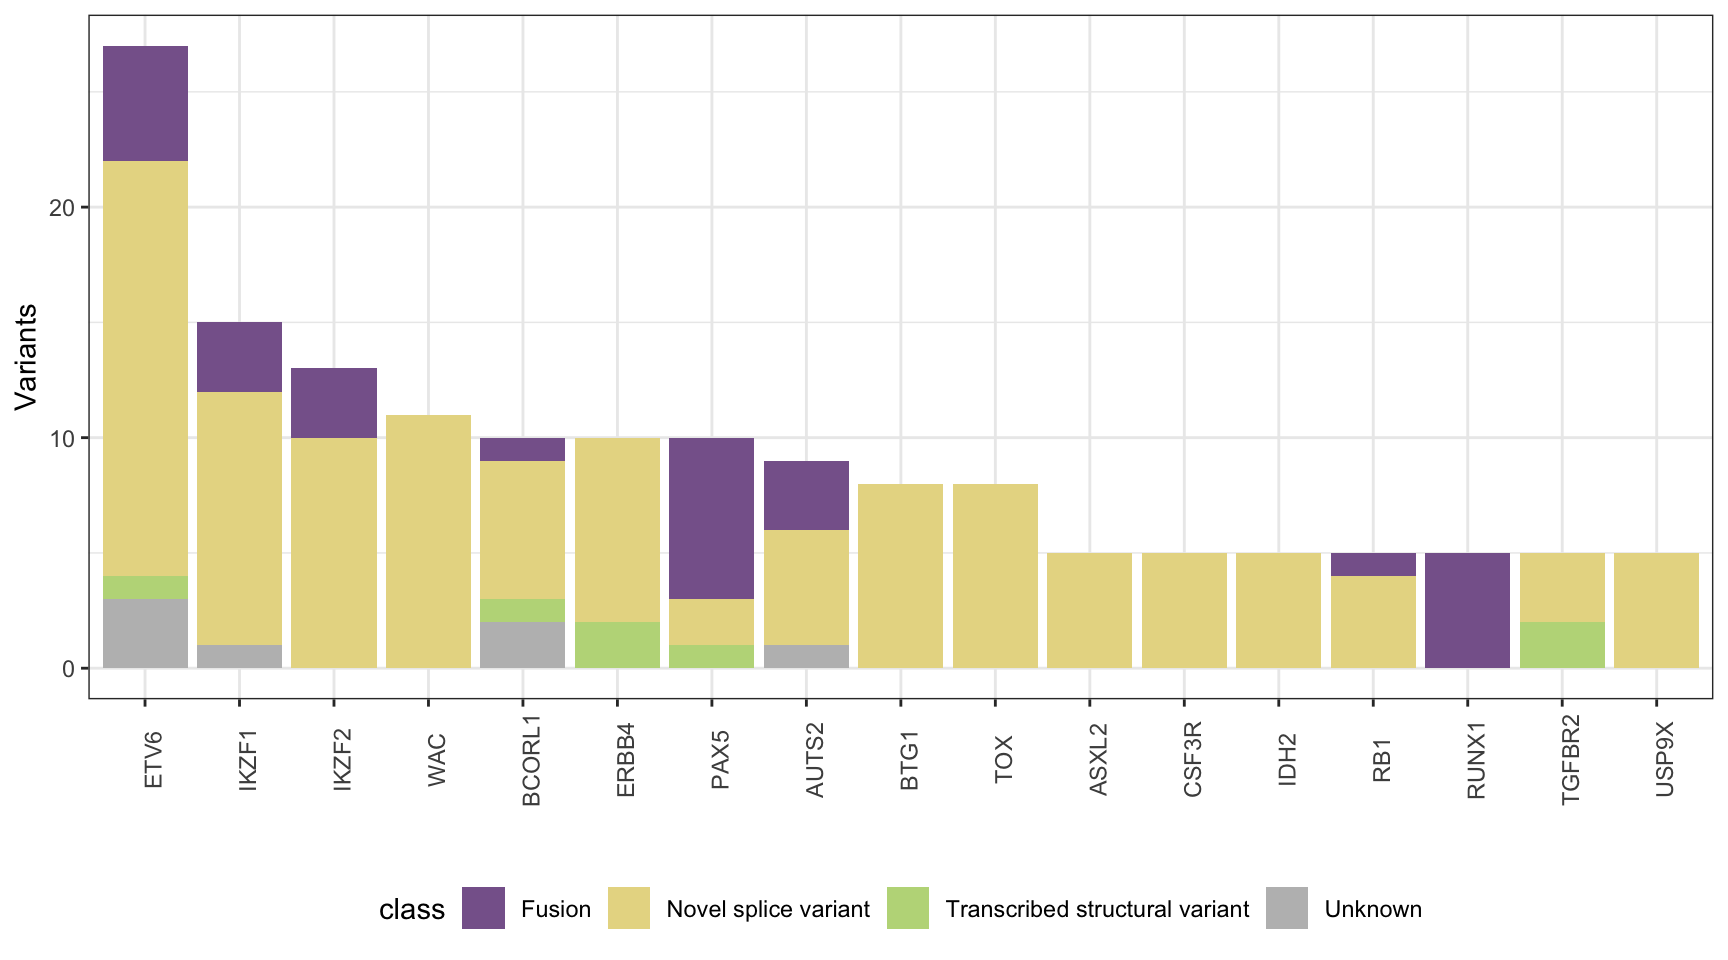
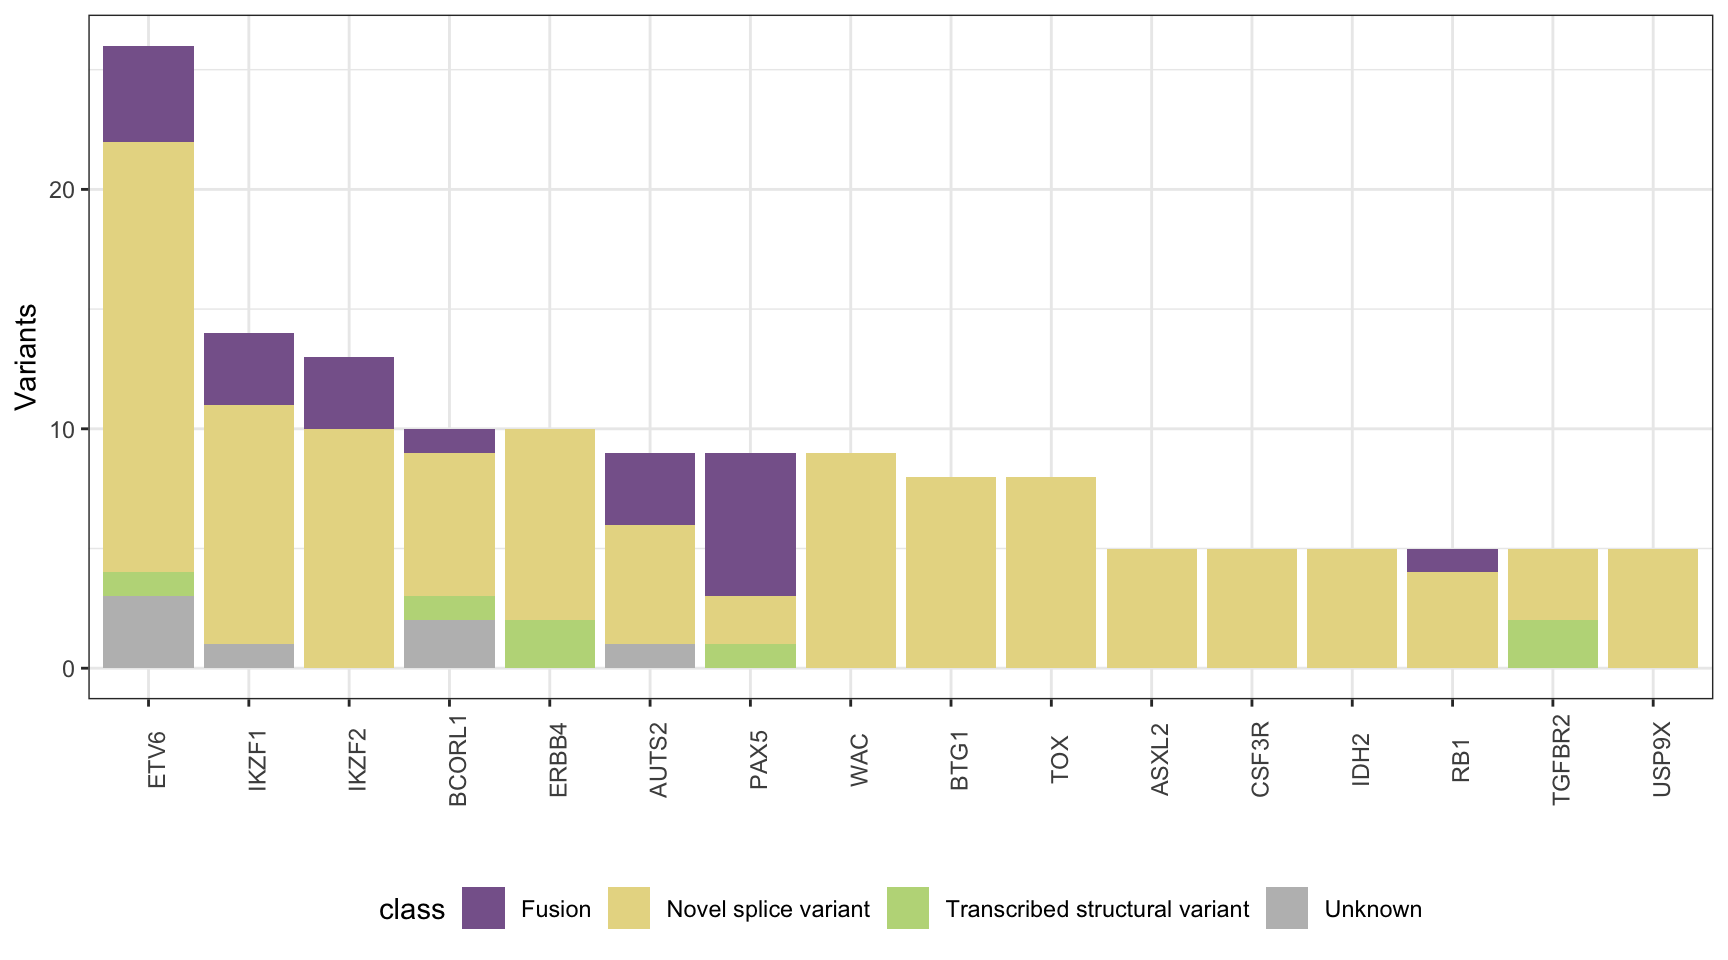
Build site.

diff --git a/docs/RCH_B-ALL.html b/docs/RCH_B-ALL.html
@@ -446,7 +446,7 @@ div.tocify {
 <div class="tab-content">
 <div id="summary" class="tab-pane fade in active">
 <p>
-<strong>Last updated:</strong> 2021-04-30
+<strong>Last updated:</strong> 2021-05-13
 </p>
 <p>
 <strong>Checks:</strong> <span class="glyphicon glyphicon-ok text-success" aria-hidden="true"></span> 7 <span class="glyphicon glyphicon-exclamation-sign text-danger" aria-hidden="true"></span> 0
@@ -537,16 +537,16 @@ This reproducible <a href="http://rmarkdown.rstudio.com">R Markdown</a> analysis
 <div class="panel panel-default">
 <div class="panel-heading">
 <p class="panel-title">
-<a data-toggle="collapse" data-parent="#workflowr-checks" href="#strongRepositoryversionstrongahrefhttpsgithubcomOshlackMINTIEpaperanalysistreedde9f5b4f44a9a652e1dca7b71eec9ad6dcc4fcctargetblankdde9f5ba"> <span class="glyphicon glyphicon-ok text-success" aria-hidden="true"></span> <strong>Repository version:</strong> <a href="https://github.com/Oshlack/MINTIE-paper-analysis/tree/dde9f5b4f44a9a652e1dca7b71eec9ad6dcc4fcc" target="_blank">dde9f5b</a> </a>
+<a data-toggle="collapse" data-parent="#workflowr-checks" href="#strongRepositoryversionstrongahrefhttpsgithubcomOshlackMINTIEpaperanalysistreec12cf2937e76785b720e7a866cda3578e87ba2e4targetblankc12cf29a"> <span class="glyphicon glyphicon-ok text-success" aria-hidden="true"></span> <strong>Repository version:</strong> <a href="https://github.com/Oshlack/MINTIE-paper-analysis/tree/c12cf2937e76785b720e7a866cda3578e87ba2e4" target="_blank">c12cf29</a> </a>
 </p>
 </div>
[2 lines of base64/hex data omitted]
 <div class="panel-body">
 <p>
 Great! You are using Git for version control. Tracking code development and connecting the code version to the results is critical for reproducibility.
 </p>
 <p>
-The results in this page were generated with repository version <a href="https://github.com/Oshlack/MINTIE-paper-analysis/tree/dde9f5b4f44a9a652e1dca7b71eec9ad6dcc4fcc" target="_blank">dde9f5b</a>. See the <em>Past versions</em> tab to see a history of the changes made to the R Markdown and HTML files.
+The results in this page were generated with repository version <a href="https://github.com/Oshlack/MINTIE-paper-analysis/tree/c12cf2937e76785b720e7a866cda3578e87ba2e4" target="_blank">c12cf29</a>. See the <em>Past versions</em> tab to see a history of the changes made to the R Markdown and HTML files.
 </p>
 <p>
 Note that you need to be careful to ensure that all relevant files for the analysis have been committed to Git prior to generating the results (you can use <code>wflow_publish</code> or <code>wflow_git_commit</code>). workflowr only checks the R Markdown file, but you know if there are other scripts or data files that it depends on. Below is the status of the Git repository when the results were generated:
@@ -619,6 +619,40 @@ Message
 </tr>
 </thead>
 <tbody>
+<tr>
+<td>
+Rmd
+</td>
+<td>
+<a href="https://github.com/Oshlack/MINTIE-paper-analysis/blob/c12cf2937e76785b720e7a866cda3578e87ba2e4/analysis/RCH_B-ALL.Rmd" target="_blank">c12cf29</a>
+</td>
+<td>
+Marek Cmero
+</td>
+<td>
+2021-05-13
+</td>
+<td>
+Call variants by unique positions in recurrent gene analysis for RCH B-ALL
+</td>
+</tr>
+<tr>
+<td>
+html
+</td>
+<td>
+<a href="https://rawcdn.githack.com/Oshlack/MINTIE-paper-analysis/4206f12a3c701670c42f5d35957cbdfa92b203a9/docs/RCH_B-ALL.html" target="_blank">4206f12</a>
+</td>
+<td>
+Marek Cmero
+</td>
+<td>
+2021-04-30
+</td>
+<td>
+Build site.
+</td>
+</tr>
 <tr>
 <td>
 html
@@ -1277,6 +1311,17 @@ Date
 <tbody>
 <tr>
 <td>
+<a href="https://github.com/Oshlack/MINTIE-paper-analysis/blob/4206f12a3c701670c42f5d35957cbdfa92b203a9/docs/figure/RCH_B-ALL.Rmd/results_overview-1.png" target="_blank">4206f12</a>
+</td>
+<td>
+Marek Cmero
+</td>
+<td>
+2021-04-30
+</td>
+</tr>
+<tr>
+<td>
 <a href="https://github.com/Oshlack/MINTIE-paper-analysis/blob/9141a03efd03d2e35f4080e55c20abf119f45007/docs/figure/RCH_B-ALL.Rmd/results_overview-1.png" target="_blank">9141a03</a>
 </td>
 <td>
@@ -1338,14 +1383,17 @@ paste(&quot;We found&quot;,
     print()</code></pre>
 <pre><code>[1] &quot;We found 339 variants across 131 unique genes&quot;</code></pre>
 <pre class="r"><code># make list of recurrently mutated genes
+var_fields &lt;- c(&quot;chr1&quot;, &quot;pos1&quot;, &quot;strand1&quot;, &quot;chr2&quot;, &quot;pos2&quot;, &quot;strand2&quot;,
+                 &quot;gene&quot;, &quot;variant_type&quot;, &quot;class&quot;, &quot;sample&quot;)
+all_gene_results &lt;- all_gene_results %&gt;% select(var_fields) %&gt;% distinct()
 recurrent_genes &lt;- group_by(all_gene_results, gene) %&gt;%
-                        summarise(var_count = length(unique(variant_id))) %&gt;%
+                        summarise(var_count = length(sample)) %&gt;%
                         filter(var_count &gt; 4) %&gt;%
                         arrange(desc(var_count))
 
 # make summary data frame
 all_gene_summary &lt;- group_by(all_gene_results, gene, class, sample) %&gt;%
-                        summarise(var_count = length(unique(variant_id))) %&gt;%
+                        summarise(var_count = length(sample)) %&gt;%
                         filter(gene %in% recurrent_genes$gene)
 all_gene_summary$gene &lt;- factor(all_gene_summary$gene,
                                 levels = recurrent_genes$gene)
@@ -1390,6 +1438,17 @@ Date
 </tr>
 </thead>
 <tbody>
+<tr>
+<td>
+<a href="https://github.com/Oshlack/MINTIE-paper-analysis/blob/4206f12a3c701670c42f5d35957cbdfa92b203a9/docs/figure/RCH_B-ALL.Rmd/ALL_associated_genes-1.png" target="_blank">4206f12</a>
+</td>
+<td>
+Marek Cmero
+</td>
+<td>
+2021-04-30
+</td>
+</tr>
 <tr>
 <td>
 <a href="https://github.com/Oshlack/MINTIE-paper-analysis/blob/9141a03efd03d2e35f4080e55c20abf119f45007/docs/figure/RCH_B-ALL.Rmd/ALL_associated_genes-1.png" target="_blank">9141a03</a>
@@ -1461,8 +1520,8 @@ all_gene_summary %&gt;%
     str_c(&quot;\n&quot;) %&gt;%
     paste0(collapse = &quot;&quot;) %&gt;%
     cat()</code></pre>
-<pre><code>We found 27 variants across 8 samples in ETV6
-We found 15 variants across 7 samples in IKZF1
+<pre><code>We found 26 variants across 8 samples in ETV6
+We found 14 variants across 7 samples in IKZF1
 We found 13 variants across 3 samples in IKZF2</code></pre>
 <br>
 <p>
@@ -1488,13 +1547,13 @@ attached base packages:
 
 other attached packages:
 [1] gt_0.2.2          ggplot2_3.3.3     stringr_1.4.0     here_1.0.1       
-[5] dplyr_1.0.4       data.table_1.13.6
+[5] dplyr_1.0.4       data.table_1.13.6 workflowr_1.6.2  
 
 loaded via a namespace (and not attached):
  [1] Rcpp_1.0.6        highr_0.8         pillar_1.4.7      compiler_4.0.3   
- [5] later_1.1.0.1     git2r_0.28.0      workflowr_1.6.2   tools_4.0.3      
- [9] digest_0.6.27     checkmate_2.0.0   evaluate_0.14     lifecycle_1.0.0  
-[13] tibble_3.0.6      gtable_0.3.0      pkgconfig_2.0.3   rlang_0.4.10     
+ [5] later_1.1.0.1     git2r_0.28.0      tools_4.0.3       digest_0.6.27    
+ [9] checkmate_2.0.0   gtable_0.3.0      evaluate_0.14     lifecycle_1.0.0  
+[13] tibble_3.0.6      pkgconfig_2.0.3   rlang_0.4.10      cli_2.3.0        
 [17] DBI_1.1.1         commonmark_1.7    yaml_2.2.1        xfun_0.21        
 [21] withr_2.4.1       knitr_1.31        sass_0.3.1        generics_0.1.0   
 [25] fs_1.5.0          vctrs_0.3.6       rprojroot_2.0.2   grid_4.0.3       
